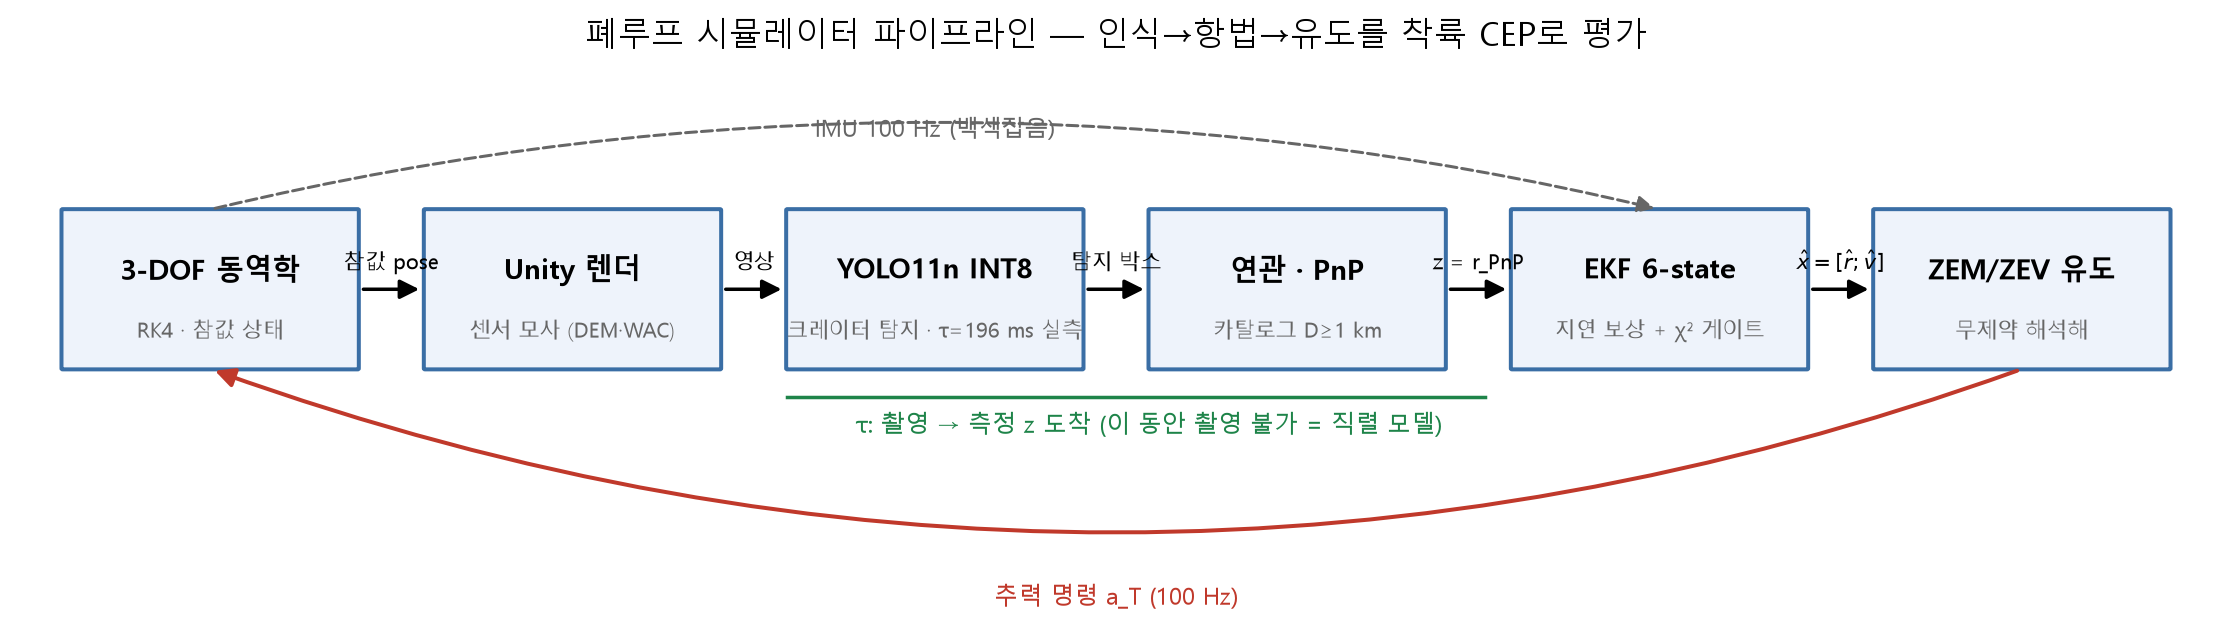
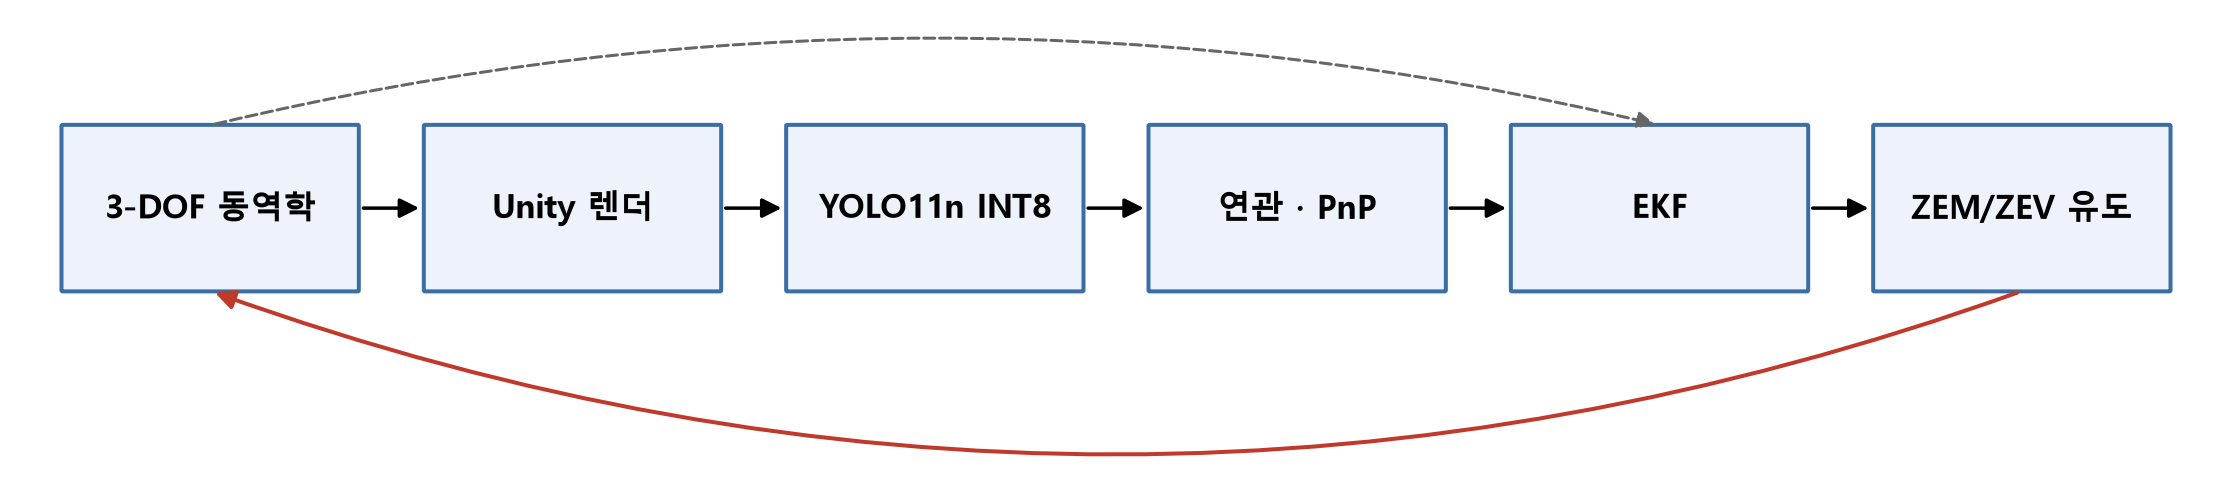
슬라이드: 파이프라인 다이어그램 단순화 — 핵심 블록 6개만, 부제·라벨·제목 제거
Claude-Session: https://claude.ai/code/session_01K71fiea5fAWu6hYiG9h9E6

diff --git a/scripts/make_diagrams.py b/scripts/make_diagrams.py
@@ -6,7 +6,6 @@
 from __future__ import annotations
 
 import argparse
-import json
 import sys
 from pathlib import Path
 
@@ -32,7 +31,7 @@ def _box(ax, x, y, w, h, title, sub=None):
     ax.add_patch(FancyBboxPatch((x, y), w, h, boxstyle="round,pad=0.02,rounding_size=0.06",
                                 fc=BOX_FC, ec=BOX_EC, lw=1.6))
     cy = y + h * (0.62 if sub else 0.5)
-    ax.text(x + w / 2, cy, title, ha="center", va="center", fontsize=11, weight="bold")
+    ax.text(x + w / 2, cy, title, ha="center", va="center", fontsize=13, weight="bold")
     if sub:
         ax.text(x + w / 2, y + h * 0.24, sub, ha="center", va="center",
                 fontsize=8.5, color=GRAY)
@@ -46,43 +45,29 @@ def _arrow(ax, x0, y0, x1, y1, label=None, color="black", ls="-", lift=8):
                     xytext=(0, lift), ha="center", fontsize=8.5, color=color)
 
 
-def pipeline(tau_ms: float, out: Path) -> None:
-    fig, ax = plt.subplots(figsize=(12.5, 3.6))
+def pipeline(out: Path) -> None:
+    """핵심 블록 6개 + 화살표만. 블록 제목 외 텍스트 없음."""
+    fig, ax = plt.subplots(figsize=(12.5, 2.9))
     ax.set_xlim(0, 100)
-    ax.set_ylim(0, 30)
+    ax.set_ylim(0, 24)
     ax.axis("off")
 
-    w, h, y = 13.5, 9.0, 14.5
+    w, h, y = 13.5, 8.5, 10.0
     xs = [2, 18.5, 35, 51.5, 68, 84.5]
-    _box(ax, xs[0], y, w, h, "3-DOF 동역학", "RK4 · 참값 상태")
-    _box(ax, xs[1], y, w, h, "Unity 렌더", "센서 모사 (DEM·WAC)")
-    _box(ax, xs[2], y, w, h, "YOLO11n INT8", f"크레이터 탐지 · τ={tau_ms:.0f} ms 실측")
-    _box(ax, xs[3], y, w, h, "연관 · PnP", "카탈로그 D≥1 km")
-    _box(ax, xs[4], y, w, h, "EKF 6-state", "지연 보상 + χ² 게이트")
-    _box(ax, xs[5], y, w, h, "ZEM/ZEV 유도", "무제약 해석해")
-
-    labels = ["참값 pose", "영상", "탐지 박스", "z = r_PnP", r"$\hat{x}=[\hat{r};\hat{v}]$"]
+    titles = ["3-DOF 동역학", "Unity 렌더", "YOLO11n INT8", "연관 · PnP", "EKF", "ZEM/ZEV 유도"]
+    for x, t in zip(xs, titles):
+        _box(ax, x, y, w, h, t)
     for i in range(5):
-        _arrow(ax, xs[i] + w, y + h / 2, xs[i + 1], y + h / 2, labels[i])
+        _arrow(ax, xs[i] + w, y + h / 2, xs[i + 1], y + h / 2)
 
-    # 피드백: 유도 → 동역학 (추력, 아래로), 동역학 → EKF (IMU, 위로)
+    # 피드백 루프: 유도 → 동역학 (추력, 아래), 동역학 → EKF (IMU, 위) — 라벨 없음
     ax.add_patch(FancyArrowPatch((xs[5] + w / 2, y), (xs[0] + w / 2, y),
                                  arrowstyle="-|>", mutation_scale=16, color=ACCENT,
                                  lw=1.6, connectionstyle="arc3,rad=-0.18"))
-    ax.text((xs[0] + xs[5] + w) / 2, 1.2, "추력 명령 a_T (100 Hz)", ha="center",
-            fontsize=9.5, color=ACCENT)
     ax.add_patch(FancyArrowPatch((xs[0] + w / 2, y + h), (xs[4] + w / 2, y + h),
                                  arrowstyle="-|>", mutation_scale=14, color=GRAY,
                                  lw=1.2, ls="--", connectionstyle="arc3,rad=-0.12"))
-    ax.text((xs[0] + xs[4] + w) / 2, 27.6, "IMU 100 Hz (백색잡음)", ha="center",
-            fontsize=9, color=GRAY)
 
-    # τ 구간 브레이스
-    ax.plot([xs[2], xs[4] - 1.2], [y - 1.6, y - 1.6], color=GREEN, lw=1.4)
-    ax.text((xs[2] + xs[4]) / 2, y - 3.6, "τ: 촬영 → 측정 z 도착 (이 동안 촬영 불가 = 직렬 모델)",
-            ha="center", fontsize=9.5, color=GREEN)
-
-    fig.suptitle("폐루프 시뮬레이터 파이프라인 — 인식→항법→유도를 착륙 CEP로 평가", fontsize=13)
     fig.tight_layout()
     fig.savefig(out, dpi=180, bbox_inches="tight")
     plt.close(fig)
@@ -156,16 +141,14 @@ def main() -> None:
     ap = argparse.ArgumentParser(description=__doc__)
     ap.add_argument("--config", default="config.yaml")
     ap.add_argument("--seed", type=int, default=0)  # CLI 규약 통일용
-    ap.add_argument("--tau-file", default="results/tau_ort_cpu_int8.json")
     ap.add_argument("--out-dir", default="figs/slides")
     args = ap.parse_args()
 
     out_dir = Path(args.out_dir)
     out_dir.mkdir(parents=True, exist_ok=True)
-    tau_ms = float(json.loads(Path(args.tau_file).read_text(encoding="utf-8"))["median_s"]) * 1e3
 
     p1 = out_dir / "slide_05_pipeline.png"
-    pipeline(tau_ms, p1)
+    pipeline(p1)
     print(f"fig: {p1}")
     p2 = out_dir / "slide_06_serial_model.png"
     serial_model(p2)
